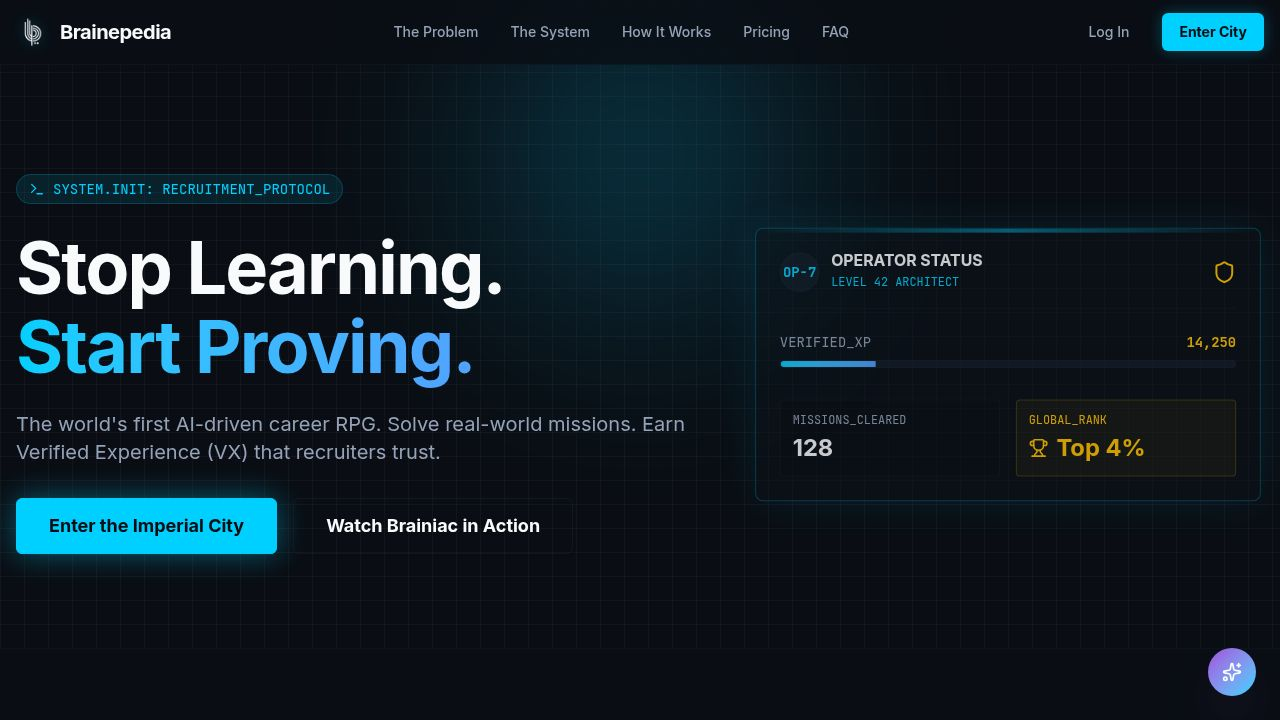
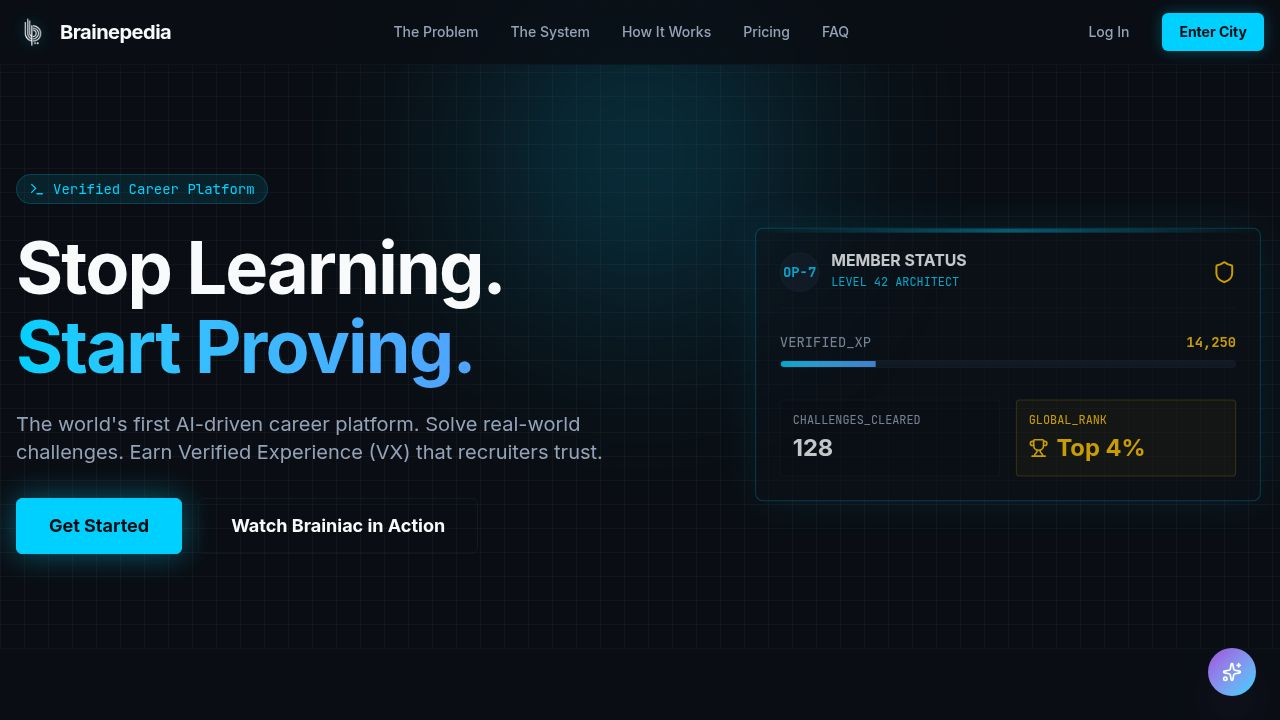
Update authentication to use only Google Sign-In
Remove Facebook, LinkedIn, and GitHub social login options, utilize dynamic window.location.origin for redirect URLs, and configure the API base URL using environment variables.

Replit-Commit-Author: Agent
Replit-Commit-Session-Id: d67e3f4c-6353-43ac-bd01-06be3a625eb1
Replit-Commit-Checkpoint-Type: full_checkpoint
Replit-Commit-Event-Id: 5d1177fa-63c4-4551-9bb0-04080225fe68
Replit-Commit-Screenshot-Url: https://storage.googleapis.com/screenshot-production-us-central1/c48b4755-bf33-49e4-af40-ed6019da38a6/d67e3f4c-6353-43ac-bd01-06be3a625eb1/R7zpFLG
Replit-Helium-Checkpoint-Created: true

diff --git a/artifacts/brainepedia/src/components/auth/SocialLoginSection.tsx b/artifacts/brainepedia/src/components/auth/SocialLoginSection.tsx
@@ -1,39 +1,13 @@
-import React from "react";
-import { socialLogin, SocialProvider } from "@/lib/socialAuth";
+import { loginWithGoogle } from "@/lib/socialAuth";
 
 const GoogleIcon = () => (
-  <svg viewBox="0 0 24 24" className="h-4 w-4" aria-hidden="true">
+  <svg viewBox="0 0 24 24" className="h-5 w-5 shrink-0" aria-hidden="true">
     <path fill="#4285F4" d="M22.56 12.25c0-.78-.07-1.53-.2-2.25H12v4.26h5.92c-.26 1.37-1.04 2.53-2.21 3.31v2.77h3.57c2.08-1.92 3.28-4.74 3.28-8.09z" />
     <path fill="#34A853" d="M12 23c2.97 0 5.46-.98 7.28-2.66l-3.57-2.77c-.98.66-2.23 1.06-3.71 1.06-2.86 0-5.29-1.93-6.16-4.53H2.18v2.84C3.99 20.53 7.7 23 12 23z" />
     <path fill="#FBBC05" d="M5.84 14.09c-.22-.66-.35-1.36-.35-2.09s.13-1.43.35-2.09V7.07H2.18C1.43 8.55 1 10.22 1 12s.43 3.45 1.18 4.93l3.66-2.84z" />
     <path fill="#EA4335" d="M12 5.38c1.62 0 3.06.56 4.21 1.64l3.15-3.15C17.45 2.09 14.97 1 12 1 7.7 1 3.99 3.47 2.18 7.07l3.66 2.84c.87-2.6 3.3-4.53 6.16-4.53z" />
   </svg>
 );
-
-const FacebookIcon = () => (
-  <svg viewBox="0 0 24 24" className="h-4 w-4" aria-hidden="true">
-    <path fill="#1877F2" d="M24 12.073C24 5.405 18.627 0 12 0S0 5.405 0 12.073C0 18.1 4.388 23.094 10.125 24v-8.437H7.078v-3.49h3.047V9.43c0-3.007 1.792-4.669 4.533-4.669 1.312 0 2.686.235 2.686.235v2.953H15.83c-1.491 0-1.956.925-1.956 1.874v2.25h3.328l-.532 3.49h-2.796V24C19.612 23.094 24 18.1 24 12.073z" />
-  </svg>
-);
-
-const LinkedInIcon = () => (
-  <svg viewBox="0 0 24 24" className="h-4 w-4" aria-hidden="true">
-    <path fill="#0A66C2" d="M20.447 20.452h-3.554v-5.569c0-1.328-.027-3.037-1.852-3.037-1.853 0-2.136 1.445-2.136 2.939v5.667H9.351V9h3.414v1.561h.046c.477-.9 1.637-1.85 3.37-1.85 3.601 0 4.267 2.37 4.267 5.455v6.286zM5.337 7.433a2.062 2.062 0 01-2.063-2.065 2.064 2.064 0 112.063 2.065zm1.782 13.019H3.555V9h3.564v11.452zM22.225 0H1.771C.792 0 0 .774 0 1.729v20.542C0 23.227.792 24 1.771 24h20.451C23.2 24 24 23.227 24 22.271V1.729C24 .774 23.2 0 22.222 0h.003z" />
-  </svg>
-);
-
-const GitHubIcon = () => (
-  <svg viewBox="0 0 24 24" className="h-4 w-4" aria-hidden="true">
-    <path fill="currentColor" d="M12 .297c-6.63 0-12 5.373-12 12 0 5.303 3.438 9.8 8.205 11.385.6.113.82-.258.82-.577 0-.285-.01-1.04-.015-2.04-3.338.724-4.042-1.61-4.042-1.61C4.422 18.07 3.633 17.7 3.633 17.7c-1.087-.744.084-.729.084-.729 1.205.084 1.838 1.236 1.838 1.236 1.07 1.835 2.809 1.305 3.495.998.108-.776.417-1.305.76-1.605-2.665-.3-5.466-1.332-5.466-5.93 0-1.31.465-2.38 1.235-3.22-.135-.303-.54-1.523.105-3.176 0 0 1.005-.322 3.3 1.23.96-.267 1.98-.399 3-.405 1.02.006 2.04.138 3 .405 2.28-1.552 3.285-1.23 3.285-1.23.645 1.653.24 2.873.12 3.176.765.84 1.23 1.91 1.23 3.22 0 4.61-2.805 5.625-5.475 5.92.42.36.81 1.096.81 2.22 0 1.606-.015 2.896-.015 3.286 0 .315.21.69.825.57C20.565 22.092 24 17.592 24 12.297c0-6.627-5.373-12-12-12" />
-  </svg>
-);
-
-const PROVIDERS: { id: SocialProvider; label: string; Icon: () => React.ReactElement }[] = [
-  { id: "Google",   label: "Continue with Google",   Icon: GoogleIcon },
-  { id: "Facebook", label: "Continue with Facebook", Icon: FacebookIcon },
-  { id: "LinkedIn", label: "Continue with LinkedIn", Icon: LinkedInIcon },
-  { id: "GitHub",   label: "Continue with GitHub",   Icon: GitHubIcon },
-];
 
 interface Props {
   label?: string;
@@ -44,24 +18,18 @@ export function SocialLoginSection({ label = "Or continue with" }: Props) {
     <div className="mt-6">
       <div className="relative flex items-center gap-3 py-1">
         <div className="flex-1 h-px bg-border/60" />
-        <span className="text-xs font-mono text-muted-foreground shrink-0">{label}</span>
+        <span className="text-xs text-muted-foreground shrink-0">{label}</span>
         <div className="flex-1 h-px bg-border/60" />
       </div>
 
-      <div className="mt-4 grid grid-cols-2 gap-3">
-        {PROVIDERS.map(({ id, label: btnLabel, Icon }) => (
-          <button
-            key={id}
-            type="button"
-            onClick={() => socialLogin(id)}
-            className="flex items-center justify-center gap-2 rounded-lg border border-border/70 bg-background/60 px-3 py-2.5 text-xs font-medium text-foreground transition-all hover:border-primary/50 hover:bg-primary/5 hover:shadow-[0_0_10px_rgba(0,210,255,0.12)] focus-visible:outline-none focus-visible:ring-2 focus-visible:ring-primary/50 active:scale-[0.97]"
-          >
-            <Icon />
-            <span className="hidden sm:inline">{btnLabel.replace("Continue with ", "")}</span>
-            <span className="sm:hidden">{id}</span>
-          </button>
-        ))}
-      </div>
+      <button
+        type="button"
+        onClick={loginWithGoogle}
+        className="mt-4 w-full flex items-center justify-center gap-3 rounded-lg border border-border/70 bg-background/60 px-4 py-3 text-sm font-medium text-foreground transition-all hover:border-primary/50 hover:bg-primary/5 hover:shadow-[0_0_12px_rgba(0,210,255,0.15)] focus-visible:outline-none focus-visible:ring-2 focus-visible:ring-primary/50 active:scale-[0.98]"
+      >
+        <GoogleIcon />
+        Continue with Google
+      </button>
     </div>
   );
 }

diff --git a/artifacts/brainepedia/src/lib/socialAuth.ts b/artifacts/brainepedia/src/lib/socialAuth.ts
@@ -1,13 +1,7 @@
-const API_BASE = "https://api.brainepedia.com";
+const API_BASE =
+  (import.meta as any).env?.VITE_API_BASE_URL || "https://api.brainepedia.com";
 
-export type SocialProvider = "Google" | "Facebook" | "LinkedIn" | "GitHub";
-
-/**
- * Initiate a social OAuth login by redirecting to the backend's OAuth entry point.
- * The redirect URL is derived from the current window origin so this works in any
- * environment (development, staging, production) without hardcoding a domain.
- */
-export function socialLogin(provider: SocialProvider): void {
+export function loginWithGoogle(): void {
   const redirectUrl = encodeURIComponent(`${window.location.origin}/login-success`);
-  window.location.href = `${API_BASE}/api/Account/social-login/${provider}?redirectUrl=${redirectUrl}`;
+  window.location.href = `${API_BASE}/api/Account/social-login/Google?redirectUrl=${redirectUrl}`;
 }